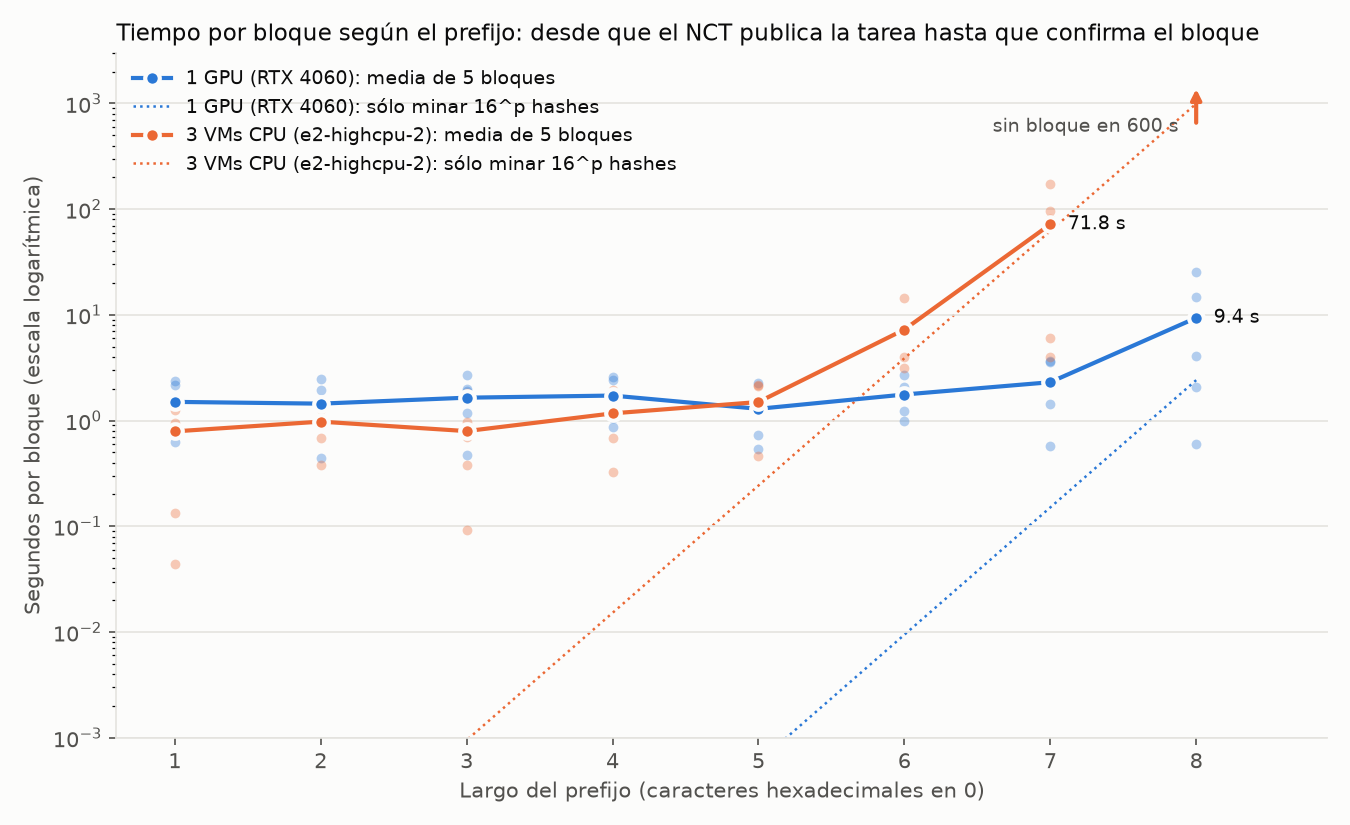
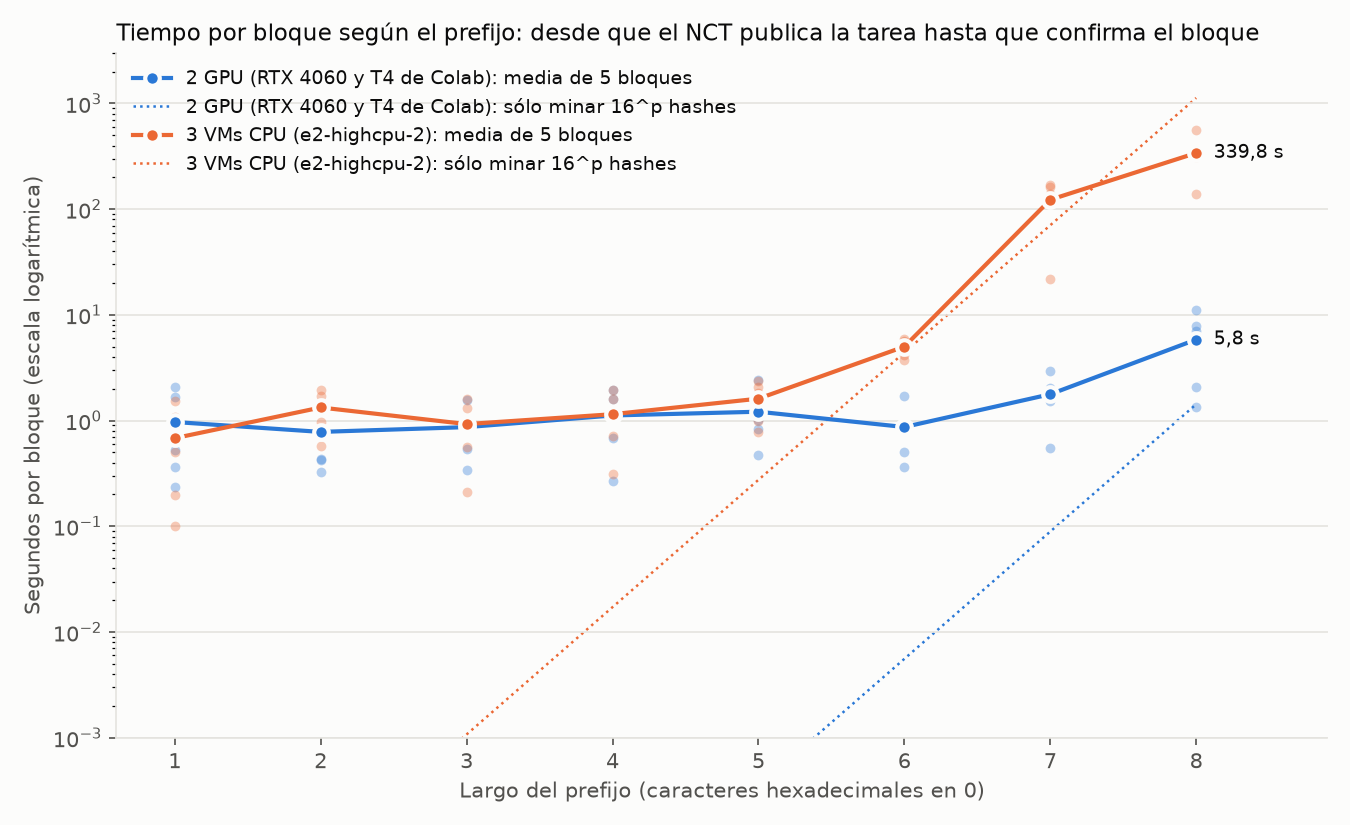
test(pilar3): prefijos de 1 a 8 rehechos en GKE con la v0.2.0 (BC-39)

diff --git a/pilar3/pruebas/grafico_prefijos.py b/pilar3/pruebas/grafico_prefijos.py
@@ -16,8 +16,9 @@ import matplotlib.pyplot as plt  # noqa: E402
 RESULTADOS = Path(__file__).parent / "resultados"
 FONDO, TEXTO, TEXTO_2, GRILLA = "#fcfcfb", "#0b0b0b", "#52514e", "#e4e3df"
 # (archivo, nombre, color, hashes/s del bench: para la curva de 16^p intentos sin el resto del sistema)
-SERIES = [("prefijos-gpu.csv", "1 GPU (RTX 4060)", "#2a78d6", 1.78e9),
-          ("prefijos-cpu.csv", "3 VMs CPU (e2-highcpu-2)", "#eb6834", 3 * 1.44e6)]
+# 18/11: los bench que registraron los mineros en esa corrida.
+SERIES = [("prefijos-gpu.csv", "2 GPU (RTX 4060 y T4 de Colab)", "#2a78d6", 1.95e9 + 1.06e9),
+          ("prefijos-cpu.csv", "3 VMs CPU (e2-highcpu-2)", "#eb6834", 3 * 1.27e6)]
 
 
 def leer(nombre):
@@ -42,7 +43,7 @@ def main():
         for p in largos:
             ax.scatter([p] * len(tiempos[p]), tiempos[p], s=22, color=color, alpha=0.35, linewidths=0, zorder=2)
         ax.plot(largos, medias, color=color, linewidth=2, marker="o", markersize=7,
-                markeredgecolor=FONDO, markeredgewidth=2, label=f"{nombre}: media de 5 bloques", zorder=3)
+                markeredgecolor=FONDO, markeredgewidth=2, label=f"{nombre}: media de {len(tiempos[largos[0]])} bloques", zorder=3)
         teoricos = list(range(1, 9))
         ax.plot(teoricos, [16 ** p / hps for p in teoricos], color=color, linewidth=1.2, linestyle=":",
                 label=f"{nombre}: sólo minar 16^p hashes", zorder=1)
@@ -50,7 +51,7 @@ def main():
             ax.annotate("", xy=(p, 1500), xytext=(p, 600), zorder=3,
                         arrowprops={"arrowstyle": "-|>", "color": color, "linewidth": 2})
             ax.text(p - 0.12, 600, motivo, color=TEXTO_2, fontsize=9, ha="right", va="center")
-        ax.text(largos[-1] + 0.12, medias[-1], f"{medias[-1]:.1f} s", color=TEXTO, fontsize=9, va="center")
+        ax.text(largos[-1] + 0.12, medias[-1], f"{medias[-1]:.1f} s".replace(".", ","), color=TEXTO, fontsize=9, va="center")
 
     ax.set_yscale("log")
     ax.set_ylim(1e-3, 3e3)

diff --git a/pilar3/pruebas/README.md b/pilar3/pruebas/README.md
@@ -52,25 +52,38 @@ Los scripts [`bulks/correr.py`](bulks/correr.py) y [`bulks/bulk.js`](bulks/bulk.
 [`prefijos.py`](prefijos.py) fija el prefijo del TrP (`PREFIJO_BASE=n`, `AJUSTAR_PREFIJO=0`), manda una transacción por bloque y toma de los logs del NCT el tiempo desde que publica la tarea hasta que confirma el bloque (si la tarea vuelve sin solución, desde la primera publicación). Al terminar deja el TrP como estaba.
 
 ```bash
-pilar2/.venv/bin/python pilar3/pruebas/prefijos.py --api http://<traefik> --salida resultados/prefijos-gpu.csv
-pilar2/.venv/bin/python pilar3/pruebas/prefijos.py --api http://<traefik> --salida resultados/prefijos-cpu.csv --tipo cpu --maximo 600
+# GPU: sólo mineros GPU vivos
+pilar2/.venv/bin/python pilar3/pruebas/prefijos.py --api https://<ingreso> --salida pilar3/pruebas/resultados/prefijos-gpu.csv
+# CPU: sin GPU vivas (la del k3s en 0 réplicas, Colab cortado) y 3 VMs fijas
+GOOGLE_OAUTH_ACCESS_TOKEN=$(gcloud auth print-access-token) PROYECTO=<proyecto> pilar3/pruebas/preparar.sh fijar-vms 3
+pilar2/.venv/bin/python pilar3/pruebas/prefijos.py --api https://<ingreso> --salida pilar3/pruebas/resultados/prefijos-cpu.csv --tipo cpu --maximo 600
+pilar3/pruebas/preparar.sh restaurar   # el escalador borra las VMs cuando vuelve la GPU
 python pilar3/pruebas/grafico_prefijos.py
 ```
 
-13/11, 5 bloques por largo: GPU con la RTX 4060 del k3s; CPU con 3 VMs e2-highcpu-2 (el escalador con `PREFIJO_BASE=8` durante la corrida, para que pida el máximo).
+**18/11, en GKE con la v0.2.0** (contrato v2: firmas, coinbase y shares), 5 bloques por largo, `ESPACIO_NONCES = 2^32` y 10 % por rango:
+- **GPU:** la RTX 4060 del k3s (`minero-gpu-0`, bench 1,95 GH/s) y una T4 de Colab (1,06 GH/s): 3,0 GH/s en total.
+- **CPU:** 3 VMs e2-highcpu-2 (`minero-cpu-0..2`, bench 1,25-1,29 MH/s cada una): 3,8 MH/s en total.
 
 ![Tiempo por bloque según el prefijo](resultados/prefijos.png)
 
-| Prefijo | 1 GPU | 3 VMs CPU |
-|---|---|---|
-| 1 a 5 | 1,3 a 1,7 s | 0,8 a 1,5 s |
-| 6 | 1,8 s | 7,3 s |
-| 7 | 2,3 s | 72 s |
-| 8 | 9,4 s | sin bloque en 600 s |
+| Prefijo | 2 GPU: media (mín. a máx.) | 3 VMs CPU: media (mín. a máx.) | Sólo minar 16^p: GPU / CPU |
+|---|---|---|---|
+| 1 a 5 | 0,8 a 1,2 s (0,2 a 2,4) | 0,7 a 1,6 s (0,1 a 2,4) | < 1 ms / < 0,3 s |
+| 6 | 0,9 s (0,4 a 1,7) | 5,0 s (3,8 a 5,9) | 6 ms / 4,4 s |
+| 7 | 1,8 s (0,5 a 2,9) | 123 s (22 a 169) | 0,1 s / 70 s |
+| 8 | 5,8 s (1,3 a 11), 4 rearmados | 340 s (140 a 565), 0 rearmados | 1,4 s / 1.130 s |
 
-- Hasta 5 caracteres no se mide el minado sino el resto del sistema (RabbitMQ, TrP, sondeo del minero, confirmación en Redis).
-- Con CPU se ve el ×16 por carácter desde el 6; con 8 harían falta ~17 min y el NCT vence la tarea a los 10 (`TAREA_VENCE`).
-- Con 8 caracteres hacen falta 16⁸ = 2³² intentos, el mismo tamaño que `ESPACIO_NONCES`: 3 de 8 tareas no tuvieron solución (e⁻¹ ≈ 37 %) y el NCT las rearmó con otro timestamp.
+Datos: [`prefijos-gpu.csv`](resultados/prefijos-gpu.csv) y [`prefijos-cpu.csv`](resultados/prefijos-cpu.csv), con sus logs.
+
+- **Hasta 5 caracteres (GPU hasta 7) no se mide el minado sino el resto del sistema:** publicar la tarea, prestar los rangos, el sondeo del minero, verificar y confirmar en Redis. Es ~1 s, con o sin GPU.
+- **Con CPU se ve el ×16 por carácter desde el 6:** 5 s → 123 s → 340 s. Con GPU recién se nota en el 8.
+- **Con 8 caracteres hacen falta 16⁸ = 2³² intentos, el mismo tamaño que `ESPACIO_NONCES`.**
+  - Una tarea no tiene solución con probabilidad e⁻¹ ≈ 37 %: la GPU recorre las 2³² en ~1,4 s y el NCT la rearma con otro timestamp. Hubo 4 rearmados en 9 tareas, y por eso la media (5,8 s) es mayor que lo que tarda en minar.
+  - Con CPU no hubo ninguna sin solución en 5 (probabilidad 0,63⁵ ≈ 10 %). Si hubiera habido una, recorrer las 2³² le lleva ~19 min y el NCT la vence a los 10 (`TAREA_VENCE_SEGUNDOS`).
+  - Cuando la tarea tiene solución, está dentro de las 2³² y se encuentra antes que el promedio sin tope: se espera 0,42 × 2³² intentos, ~470 s con 3,8 MH/s. Por eso con CPU la media medida (340 s) queda por debajo de los 1.130 s de 16⁸ / potencia.
+- El tiempo hasta encontrar el nonce es exponencial: con 5 bloques la dispersión es grande (con CPU, prefijo 7, de 22 a 169 s).
+- **Contra el 13/11** (v1, 1 RTX y 3 VMs; los CSV viejos quedan en el historial de git): la GPU con prefijo 8 bajó de 9,4 a 5,8 s con la segunda placa; el prefijo 8 con CPU, que entonces no salió en 600 s, ahora salió 5 de 5. Hasta el 7 los tiempos son del mismo orden: la v2 (firmas, coinbase y shares) no agregó una demora que se note.
 
 ## Fragmentación del 1 % al 50 % (BC-40)
 
